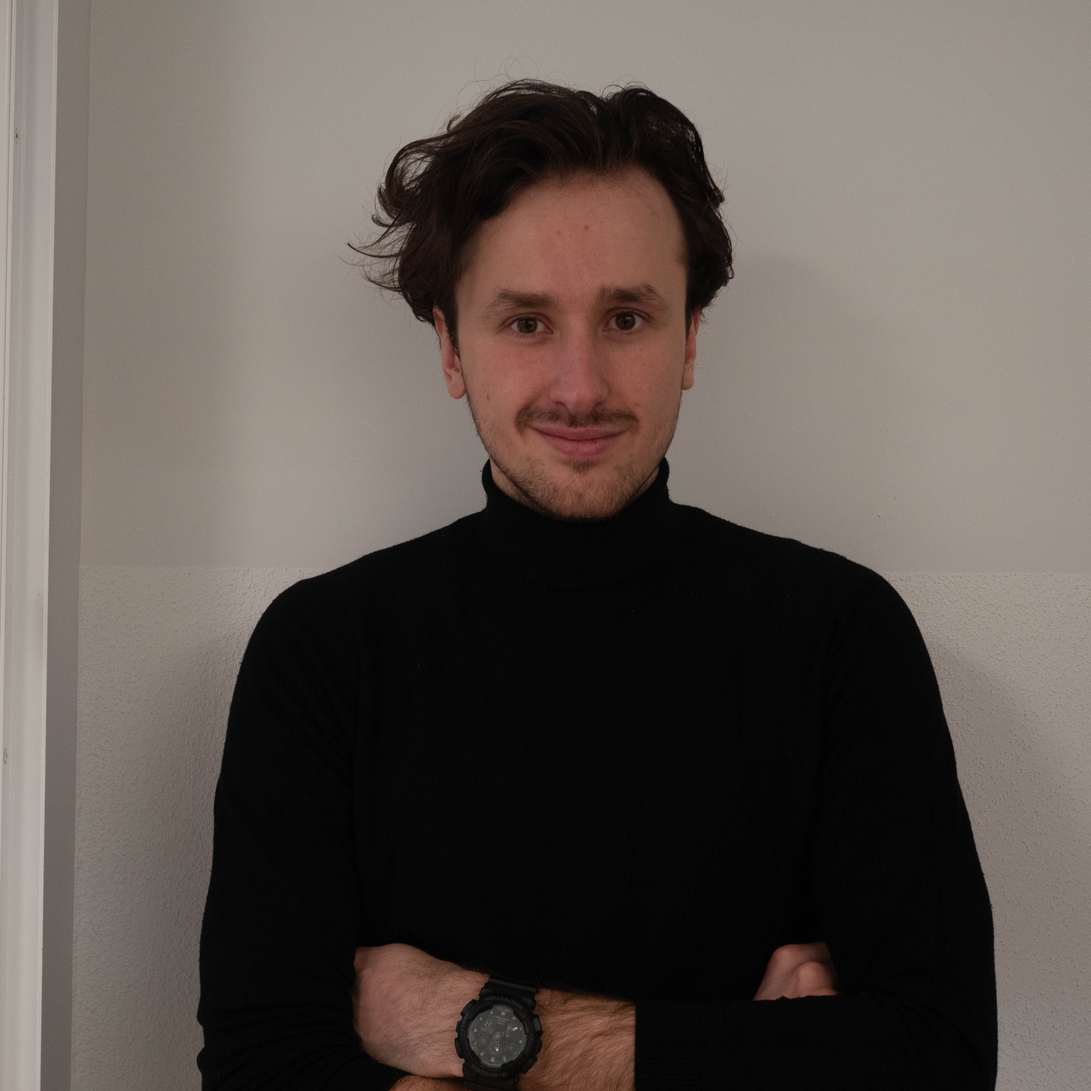
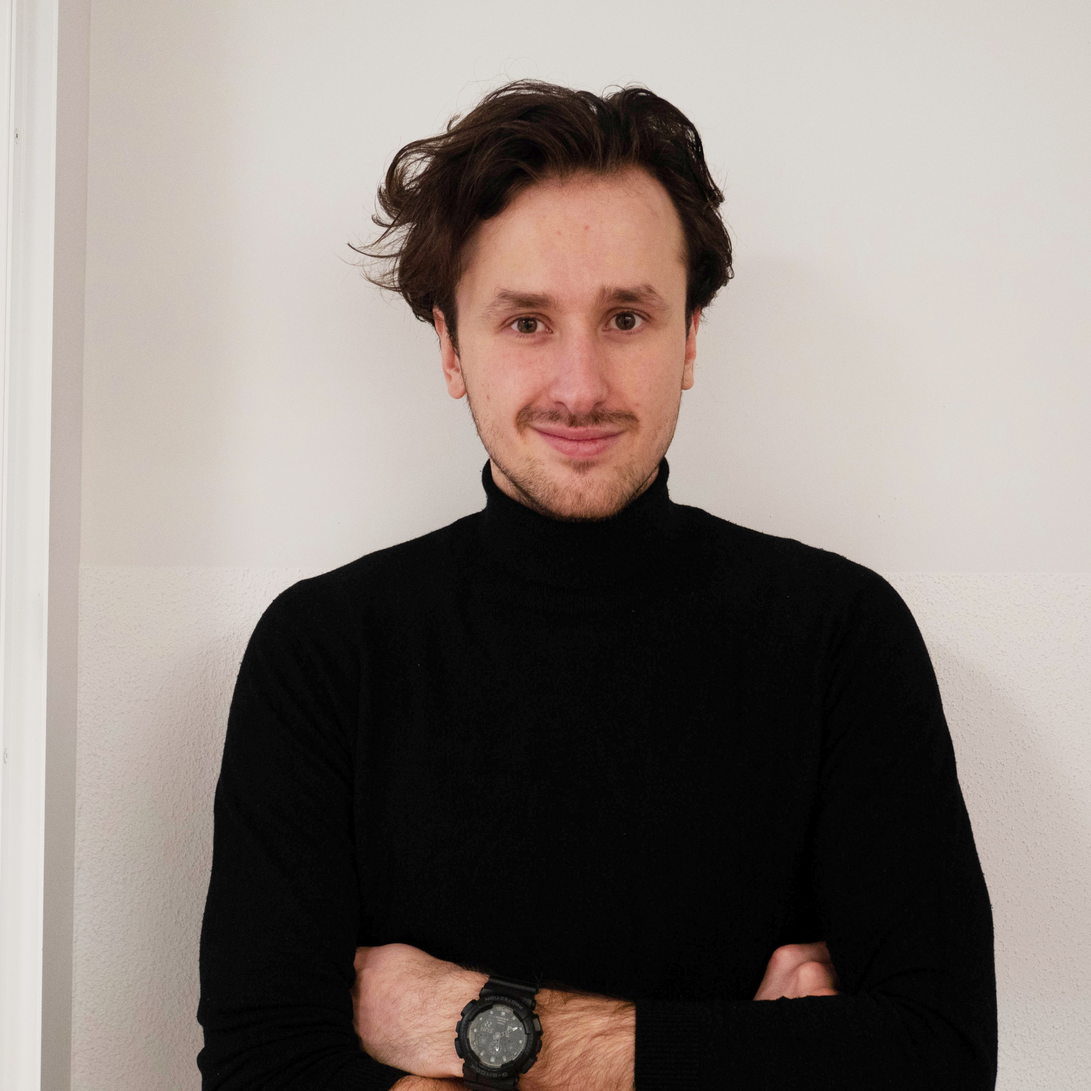
about colors update

diff --git a/scss/Components/_about.scss b/scss/Components/_about.scss
@@ -2,7 +2,7 @@
     margin-top: 200px;
     display: flex;
     flex-direction: column;
-    background-color: $primary-color;
+    background-color: darken(#f2f2f2, 10%);
     height: auto;
 
     h2 {
@@ -10,6 +10,7 @@
         font-size: 2rem;
         margin: 50px 0 50px 0;
         text-align: center;
+        color: black;
     }
 
     .people {
@@ -28,7 +29,7 @@
             align-items: center;
 
             .description {
-                color: white;
+                color: darken(rebeccapurple, 10%);
                 font-size: 22px;
                 font-weight: 700;
                 text-align: center;
@@ -39,6 +40,7 @@
                     padding-top: 10px;
                     font-size: 18px;
                     font-weight: 400;
+                    font-style: italic;
                 }
             }
         
@@ -47,22 +49,23 @@
                 background-position: center;
                 background-repeat: no-repeat;
                 display: block;
-                width: 210px;
-                height: 210px;
+                width: 220px;
+                height: 220px;
                 border-radius: 50%;
                 margin: 15px;
+                border: 7px solid white;
 
-                &::after {
-                    content: "";
-                    top: 0;
-                    left: 0;
-                    display: block;
-                    width: 210px;
-                    height: 210px;
-                    border-radius: 50%;
-                    background: rgba(white, 0.05);
-                    border: 10px solid seagreen;
-                }
+                // &::after {
+                //     content: "";
+                //     top: 0;
+                //     left: 0;
+                //     display: block;
+                //     width: 210px;
+                //     height: 210px;
+                //     border-radius: 50%;
+                //     background: rgba(white, 0.05);
+                //     border: 10px solid seagreen;
+                // }
             }
 
             .img1 {

diff --git a/css/main.css b/css/main.css
@@ -664,7 +664,7 @@ label[for=consent]::before {
   margin-top: 200px;
   display: flex;
   flex-direction: column;
-  background-color: #38D39F;
+  background-color: #d9d9d9;
   height: auto;
 }
 
@@ -673,6 +673,7 @@ label[for=consent]::before {
   font-size: 2rem;
   margin: 50px 0 50px 0;
   text-align: center;
+  color: black;
 }
 
 #about .people {
@@ -693,7 +694,7 @@ label[for=consent]::before {
 }
 
 #about .people .name .description {
-  color: white;
+  color: #4d2673;
   font-size: 22px;
   font-weight: 700;
   text-align: center;
@@ -705,6 +706,7 @@ label[for=consent]::before {
   padding-top: 10px;
   font-size: 18px;
   font-weight: 400;
+  font-style: italic;
 }
 
 #about .people .name .img {
@@ -712,22 +714,11 @@ label[for=consent]::before {
   background-position: center;
   background-repeat: no-repeat;
   display: block;
-  width: 210px;
-  height: 210px;
+  width: 220px;
+  height: 220px;
   border-radius: 50%;
   margin: 15px;
-}
-
-#about .people .name .img::after {
-  content: "";
-  top: 0;
-  left: 0;
-  display: block;
-  width: 210px;
-  height: 210px;
-  border-radius: 50%;
-  background: rgba(255, 255, 255, 0.05);
-  border: 10px solid seagreen;
+  border: 7px solid white;
 }
 
 #about .people .name .img1 {
